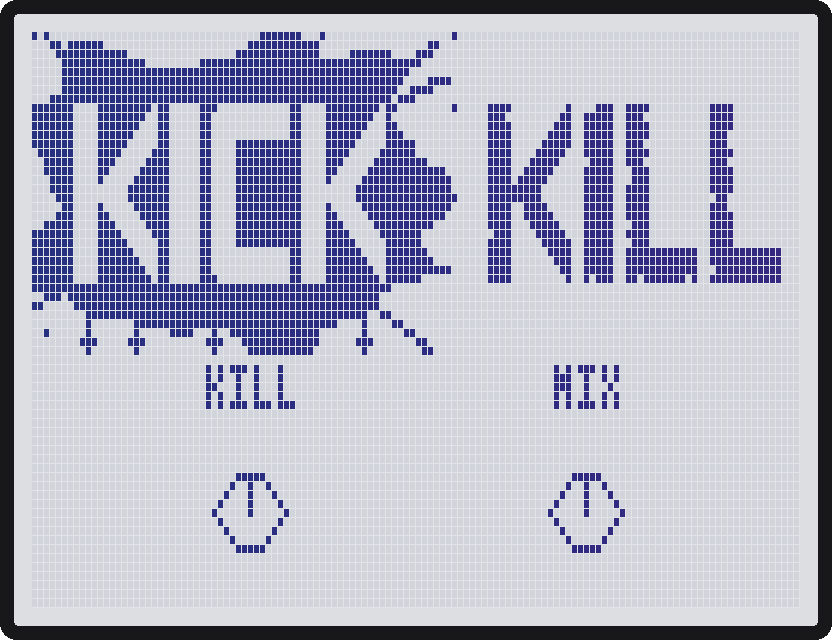
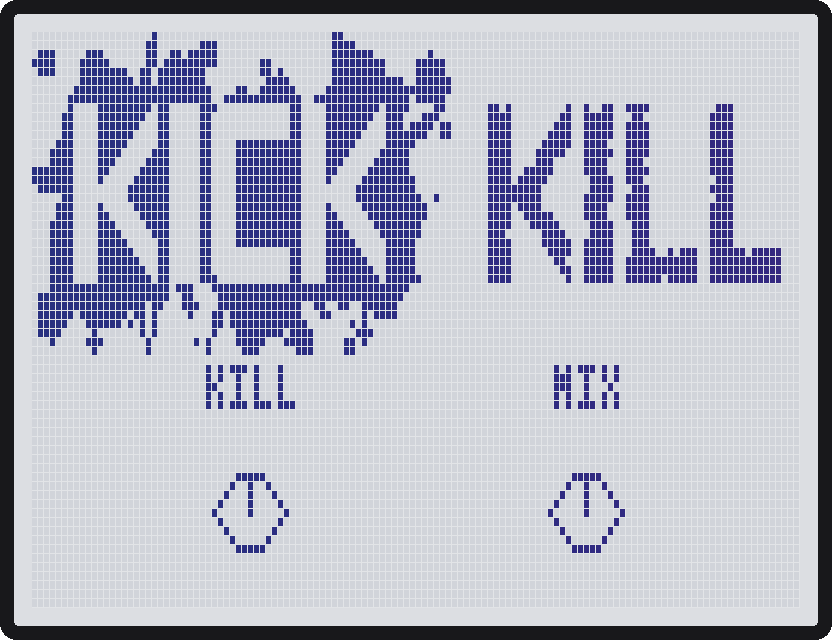
KickKill cover: several overlapping splats (one behind each letter, small ones flung around) instead of one blob

diff --git a/src/custom/kickkill/make_cover.py b/src/custom/kickkill/make_cover.py
@@ -1,7 +1,7 @@
 """Generate src/airwindows/common/covers/KickKill.json (128x64 cover override).
 
 KICK KILL in Washout's style (the pack's square block font, edges lightly worn): KICK is cut
-out (negative) of a splat of blood with spikes, drips and droplets; KILL solid with worn
+out (negative) of several overlapping splats of blood with spikes, drips and droplets; KILL solid with worn
 edges. Seeded, so every run draws the same picture. Knob row: custom_covers._draw_knob_row.
 
 Run from anywhere:  py src/custom/kickkill/make_cover.py
@@ -56,35 +56,43 @@ def build():
     rnd = random.Random(503)
     c = Canvas()
     ink = set()
-    # the splat: a boxy blob with a ragged rim around KICK
-    cx, cy, rx, ry = 33.0, 17.5, 34.0, 16.5
-    ph = [rnd.uniform(0, 6.3) for _ in range(3)]
-    for y in range(ART_H):
-        for x in range(0, 70):
-            dx, dy = (x - cx) / rx, (y - cy) / ry
-            a = math.atan2(dy, dx)
-            rim = 1.0 + 0.10 * math.sin(5 * a + ph[0]) + 0.07 * math.sin(9 * a + ph[1]) + 0.05 * math.sin(14 * a + ph[2])
-            if abs(dx) ** 3 + abs(dy) ** 3 <= rim ** 3 * (1.0 - rnd.uniform(0, 0.06)):
-                ink.add((x, y))
-    # spikes thrown out of the rim, a droplet at each end
-    for _ in range(11):
-        a = rnd.uniform(0, 2 * math.pi)
-        r0, r1 = 0.9, rnd.uniform(1.15, 1.45)
-        for t in range(40):
-            r = r0 + (r1 - r0) * t / 39
-            ink.add((round(cx + math.cos(a) * rx * r), round(cy + math.sin(a) * ry * r)))
-        ex, ey = round(cx + math.cos(a) * rx * (r1 + 0.12)), round(cy + math.sin(a) * ry * (r1 + 0.12))
-        ink.update((ex + i, ey + j) for i in (0, 1) for j in (0, 1))
-    # drips running down from the bottom rim
-    for x in (9, 17, 30, 44, 55):
+    def splat(cx, cy, r, sx=1.0, spikes=0):
+        """One blob: wobbly rim, a few spikes thrown out with a droplet at each end."""
+        ph = [rnd.uniform(0, 6.3) for _ in range(3)]
+        sp = [(rnd.uniform(-math.pi, math.pi), rnd.uniform(0.35, 0.8)) for _ in range(spikes)]
+        for y in range(ART_H):
+            for x in range(0, 71):
+                dx, dy = (x - cx) / sx, y - cy
+                a, d = math.atan2(dy, dx), math.hypot(dx, dy)
+                rim = r * (1 + 0.12 * math.sin(3 * a + ph[0]) + 0.07 * math.sin(7 * a + ph[1]) + 0.04 * math.sin(13 * a + ph[2]))
+                for sa, sl in sp:                 # a spike: a narrow lobe 35..80 % past the rim
+                    da = abs((a - sa + math.pi) % (2 * math.pi) - math.pi)
+                    rim += r * sl * max(0.0, 1 - da / 0.10)
+                if d <= rim:
+                    ink.add((x, y))
+        for sa, sl in sp:
+            d = r * (1 + sl + 0.25)
+            ex, ey = round(cx + math.cos(sa) * d * sx), round(cy + math.sin(sa) * d)
+            ink.update((ex + i, ey + j) for i in (0, 1) for j in (0, 1))
+    # several splats of blood thrown on top of each other behind KICK, small ones flung around
+    splat(14, 18, 14.5, 0.85, 3)                  # one splat behind each letter
+    splat(25, 16, 13.5, 0.55, 2)
+    splat(36, 19, 14.5, 0.75, 3)
+    splat(53, 17, 14.5, 0.80, 3)
+    splat(66, 5, 3.0, 1.0, 1)                     # small ones flung around
+    splat(3, 31, 2.8, 1.0, 1)
+    splat(44, 33, 2.2, 1.0, 0)
+    splat(2, 3, 1.8, 1.0, 0)
+    splat(29, 2, 1.6, 1.0, 0)
+    # drips running down from the lowest rim
+    for x in (10, 26, 37, 55):
         y = max(yy for (xx, yy) in ink if xx == x and yy < 33)
-        end = min(ART_H - 2, y + rnd.randint(2, 5))
+        end = min(ART_H - 2, y + rnd.randint(2, 4))
         ink.update((x, yy) for yy in range(y, end + 1))
         ink.update(((x - 1, end), (x + 1, end), (x, end + 1)))
     # loose droplets
-    for _ in range(14):
-        x, y = rnd.randint(0, 70), rnd.randint(0, ART_H - 1)
-        ink.add((x, y))
+    for _ in range(16):
+        ink.add((rnd.randint(0, 70), rnd.randint(0, ART_H - 1)))
     ink = {(x, y) for (x, y) in ink if x <= 70}  # keep the blood clear of KILL
     # KICK cut out of the blood (negative), KILL solid with worn edges
     kick, _ = word("KICK", 7)
